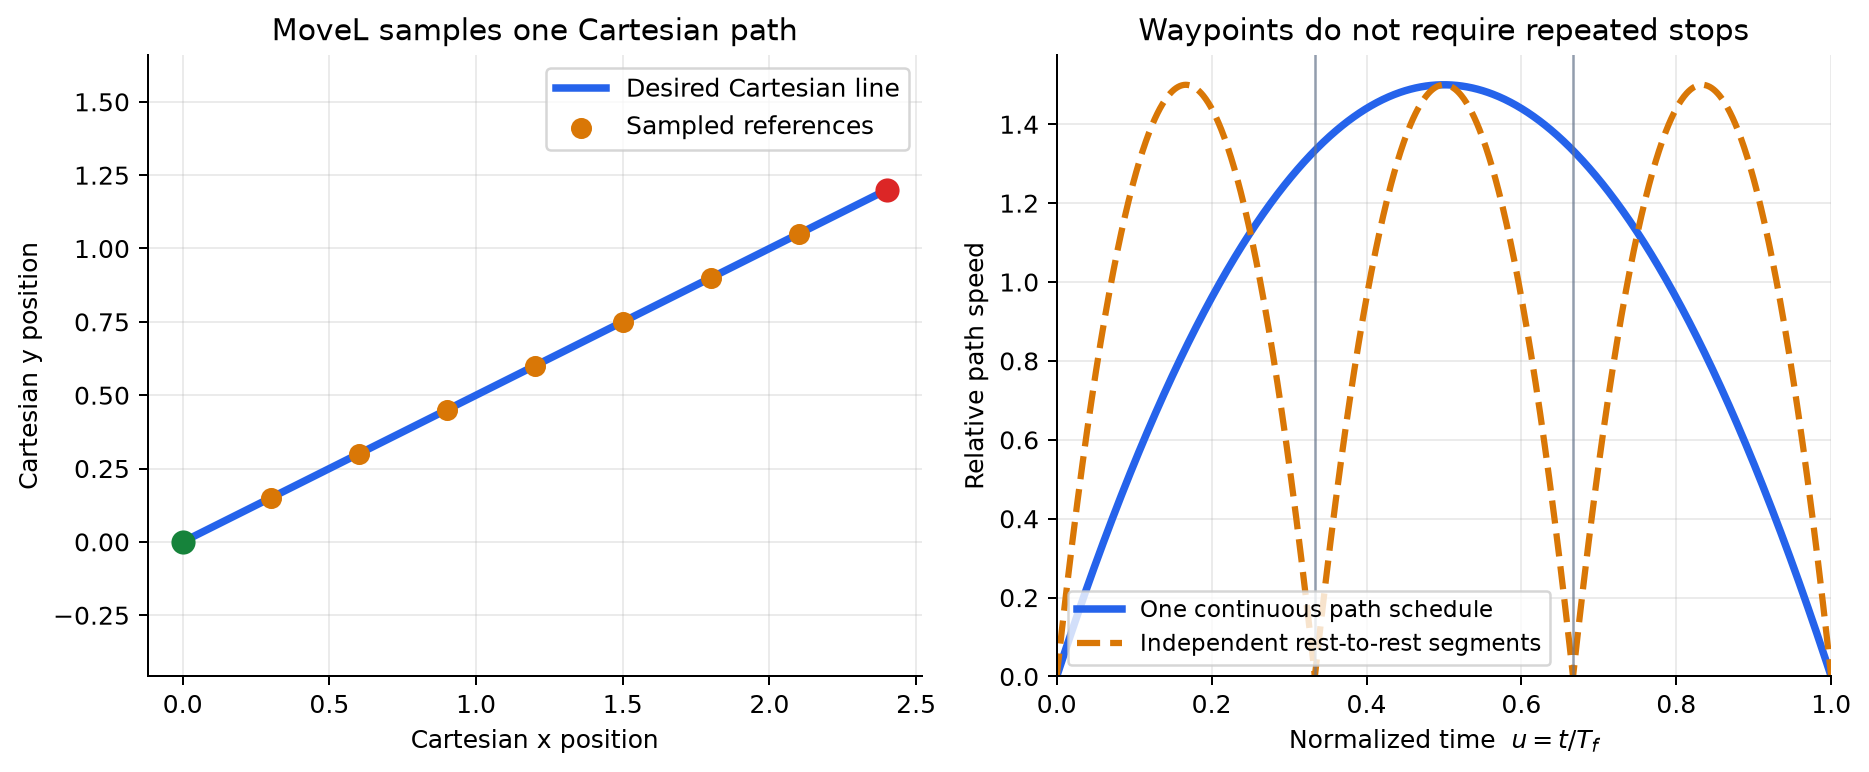
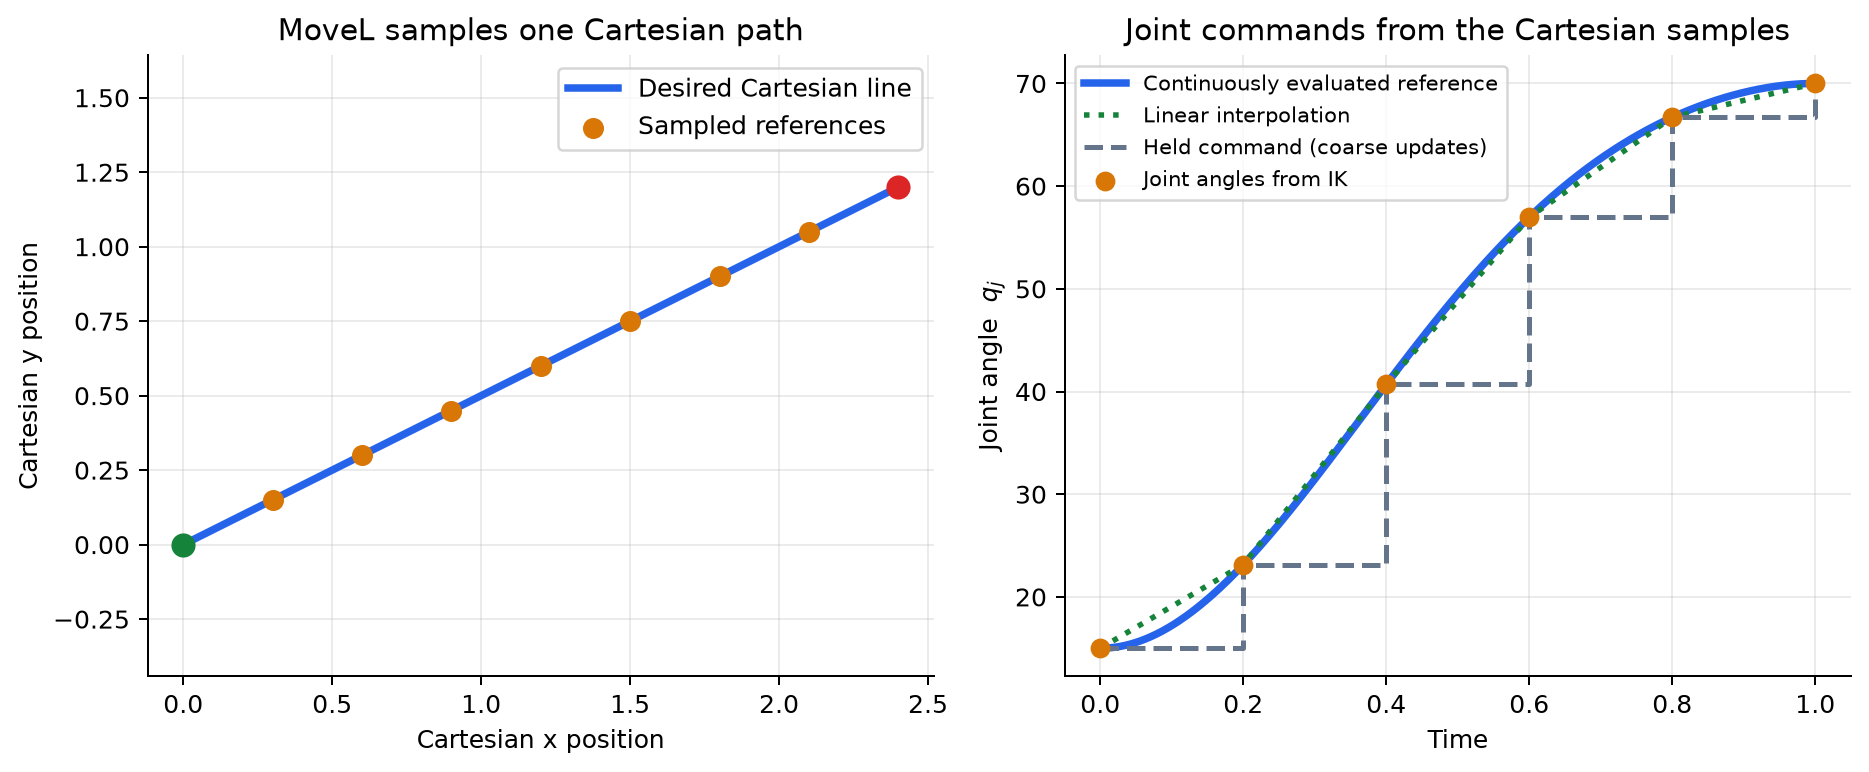
Implement code changes to enhance functionality and improve performance

diff --git a/lab05_trajectory_tracking/figures/generate_trajectory_figures.py b/lab05_trajectory_tracking/figures/generate_trajectory_figures.py
@@ -315,7 +315,7 @@ def save_joint_space_motion():
     plt.close(figure)
 
 
-def save_cartesian_waypoints():
+def save_cartesian_sampling():
     path_progress = np.linspace(0.0, 1.0, 501)
     start = np.array([0.0, 0.0])
     end = np.array([2.4, 1.2])
@@ -323,12 +323,18 @@ def save_cartesian_waypoints():
     waypoint_progress = np.linspace(0.0, 1.0, 9)
     waypoints = start[:, None] + (end - start)[:, None] * waypoint_progress
 
-    normalized_time = np.linspace(0.0, 1.0, 1201)
-    continuous_speed = 6.0 * normalized_time - 6.0 * normalized_time**2
-    segment_count = 3
-    local_progress = np.mod(normalized_time * segment_count, 1.0)
-    local_progress[-1] = 1.0
-    stop_at_waypoint_speed = 6.0 * local_progress * (1.0 - local_progress)
+    time = np.linspace(0.0, 1.0, 1001)
+    joint_reference = (
+        15.0
+        + 55.0 * (3.0 * time**2 - 2.0 * time**3)
+        + 7.0 * np.sin(np.pi * time) ** 2
+    )
+    sample_times = np.linspace(0.0, 1.0, 6)
+    sample_angles = (
+        15.0
+        + 55.0 * (3.0 * sample_times**2 - 2.0 * sample_times**3)
+        + 7.0 * np.sin(np.pi * sample_times) ** 2
+    )
 
     figure, axes = plt.subplots(1, 2, figsize=(10.4, 4.4))
     style_axes(axes)
@@ -345,19 +351,20 @@ def save_cartesian_waypoints():
     axes[0].axis("equal")
     axes[0].legend()
 
-    axes[1].plot(normalized_time, continuous_speed, color=BLUE,
-                 linewidth=3.0, label="One continuous path schedule")
-    axes[1].plot(normalized_time, stop_at_waypoint_speed, color=ORANGE,
-                 linewidth=2.5, linestyle="--",
-                 label="Independent rest-to-rest segments")
-    for boundary in [1.0 / 3.0, 2.0 / 3.0]:
-        axes[1].axvline(boundary, color=GRAY, linewidth=1.0, alpha=0.7)
-    axes[1].set_xlim(0.0, 1.0)
-    axes[1].set_ylim(bottom=0.0)
-    axes[1].set_xlabel(r"Normalized time  $u=t/T_f$")
-    axes[1].set_ylabel("Relative path speed")
-    axes[1].set_title("Waypoints do not require repeated stops")
-    axes[1].legend(fontsize=9)
+    axes[1].plot(time, joint_reference, color=BLUE, linewidth=3.0,
+                 label="Continuously evaluated reference")
+    axes[1].plot(time, np.interp(time, sample_times, sample_angles),
+                 color=GREEN, linewidth=2.2, linestyle=":",
+                 label="Linear interpolation")
+    axes[1].step(sample_times, sample_angles, where="post", color=GRAY,
+                 linewidth=2.0, linestyle="--",
+                 label="Held command (coarse updates)")
+    axes[1].scatter(sample_times, sample_angles, color=ORANGE, s=48,
+                    zorder=4, label="Joint angles from IK")
+    axes[1].set_xlabel("Time")
+    axes[1].set_ylabel(r"Joint angle  $q_j$")
+    axes[1].set_title("Joint commands from the Cartesian samples")
+    axes[1].legend(fontsize=8.5)
 
     figure.tight_layout()
     figure.savefig(
@@ -366,19 +373,13 @@ def save_cartesian_waypoints():
     plt.close(figure)
 
 
-def save_ik_samples_and_via_points():
-    time = np.linspace(0.0, 1.0, 1001)
-    joint_reference = (
-        15.0
-        + 55.0 * (3.0 * time**2 - 2.0 * time**3)
-        + 7.0 * np.sin(np.pi * time) ** 2
-    )
-    sample_times = np.linspace(0.0, 1.0, 6)
-    sample_angles = (
-        15.0
-        + 55.0 * (3.0 * sample_times**2 - 2.0 * sample_times**3)
-        + 7.0 * np.sin(np.pi * sample_times) ** 2
-    )
+def save_via_point_segments():
+    normalized_time = np.linspace(0.0, 1.0, 1201)
+    continuous_speed = 6.0 * normalized_time - 6.0 * normalized_time**2
+    segment_count = 3
+    local_progress = np.mod(normalized_time * segment_count, 1.0)
+    local_progress[-1] = 1.0
+    stop_at_waypoint_speed = 6.0 * local_progress * (1.0 - local_progress)
 
     via_times = np.array([0.0, 1.0, 2.0, 3.0])
     via_angles = np.array([0.0, 0.9, -0.25, 1.05])
@@ -415,19 +416,18 @@ def save_ik_samples_and_via_points():
     figure, axes = plt.subplots(1, 2, figsize=(10.6, 4.5))
     style_axes(axes)
 
-    axes[0].plot(time, joint_reference, color=BLUE, linewidth=3.0,
-                 label="Continuously evaluated reference")
-    axes[0].plot(time, np.interp(time, sample_times, sample_angles),
-                 color=GREEN, linewidth=2.2, linestyle=":",
-                 label="Linear interpolation")
-    axes[0].step(sample_times, sample_angles, where="post", color=GRAY,
-                 linewidth=2.0, linestyle="--",
-                 label="Held command (coarse updates)")
-    axes[0].scatter(sample_times, sample_angles, color=ORANGE, s=48,
-                    zorder=4, label="Joint angles from IK")
-    axes[0].set_xlabel("Time")
-    axes[0].set_ylabel(r"Joint angle  $q_j$")
-    axes[0].set_title("Between successive IK samples")
+    axes[0].plot(normalized_time, continuous_speed, color=BLUE,
+                 linewidth=3.0, label="One continuous path schedule")
+    axes[0].plot(normalized_time, stop_at_waypoint_speed, color=ORANGE,
+                 linewidth=2.5, linestyle="--",
+                 label="Independent rest-to-rest segments")
+    for boundary in [1.0 / 3.0, 2.0 / 3.0]:
+        axes[0].axvline(boundary, color=GRAY, linewidth=1.0, alpha=0.7)
+    axes[0].set_xlim(0.0, 1.0)
+    axes[0].set_ylim(bottom=0.0)
+    axes[0].set_xlabel(r"Normalized time  $u=t/T_f$")
+    axes[0].set_ylabel("Relative path speed")
+    axes[0].set_title("Stop at or pass through each via point")
     axes[0].legend(fontsize=8.5)
 
     axes[1].plot(spline_time, spline_angle, color=BLUE, linewidth=3.0,
@@ -456,7 +456,7 @@ def save_ik_samples_and_via_points():
 
     figure.tight_layout()
     figure.savefig(
-        OUTPUT_DIR / "ik_samples_and_via_points.png",
+        OUTPUT_DIR / "via_point_segments.png",
         dpi=180,
         bbox_inches="tight",
     )
@@ -470,5 +470,5 @@ if __name__ == "__main__":
     save_cubic_derivative_shapes()
     save_velocity_profile_comparison()
     save_joint_space_motion()
-    save_cartesian_waypoints()
-    save_ik_samples_and_via_points()
+    save_cartesian_sampling()
+    save_via_point_segments()

diff --git a/lab05_trajectory_tracking/OPTIONAL_BACKGROUND.md b/lab05_trajectory_tracking/OPTIONAL_BACKGROUND.md
@@ -366,15 +366,19 @@ $$
 
 where $\boldsymbol\tau_{\mathrm{ff}}$ can compensate for gravity, inertia, and other modeled effects. Actual industrial controllers use more detailed proprietary algorithms, but the principle is the same: closely spaced references guide a continuous physical response. If a high-level program supplies only widely spaced points, the robot controller normally interpolates or blends them internally using a linear, polynomial, trapezoidal, or jerk-limited profile.
 
+![A continuous Cartesian line sampled into reference points and the corresponding sampled joint commands.](figures/cartesian_waypoints.png)
+
+*Both panels describe the same continuous Cartesian-sampling process. Left: the orange points sample one Cartesian line. Right: IK converts successive Cartesian samples into joint targets; the dashed staircase, dotted linear interpolation, and solid continuous reference show possible interpretations between deliberately coarse samples.*
+
+Smaller sampling intervals represent the reference path more densely but increase the number of IK solves and commands. Very coarse sampling can produce interpolation error. Very fine sampling does not automatically improve tracking if the controller or simulation step cannot follow the commands.
+
+### User-defined segments and via points
+
 A waypoint can also be a user-specified point that divides a longer path into segments. Each segment needs a geometric interpolation rule, but it does **not** need to be an independent rest-to-rest motion. A practical trajectory generator coordinates the timing of the complete path and sends one continuous stream of references. It may blend or round a corner so velocity and acceleration remain continuous.
 
 If each segment instead receives its own rest-to-rest profile, the commanded speed falls to zero at every waypoint. That behavior is appropriate when a full stop is required, but it produces unnecessary repeated acceleration and deceleration when the robot should pass through continuously.
 
-![A Cartesian line sampled into waypoints and continuous versus stop-at-each-waypoint speed schedules.](figures/cartesian_waypoints.png)
-
-*Left: the orange points are samples of one continuous Cartesian line, not separate motions. Right: independently profiling every segment forces a stop at each boundary, whereas one path-level schedule passes through the sampled references continuously.*
-
-The figure below separates high-rate IK samples from user-defined via points. The construction on the right is the piecewise-polynomial idea often shown in trajectory-planning diagrams: each time interval has its own polynomial, and neighboring polynomials meet at a via point. To pass through smoothly, both segments must give the same joint angle and joint velocity there,
+The piecewise-polynomial construction often shown in trajectory-planning diagrams assigns one polynomial to each interval between user-defined via points. Neighboring polynomials meet at a via point. To pass through smoothly, both segments must give the same joint angle and joint velocity there,
 
 $$
 q_j(t_k^-)=q_j(t_k^+),
@@ -384,11 +388,9 @@ $$
 
 Matching acceleration as well gives still smoother motion. Setting the shared waypoint velocity to zero makes the joint stop there; assigning a nonzero shared velocity lets it pass through continuously. If the polynomials are constructed in joint space after IK, the tool path between Cartesian waypoints is not guaranteed to remain exactly straight. Maintaining a strict Cartesian line requires sampling or controlling the Cartesian path itself.
 
-![Joint commands between IK samples and piecewise cubic segments joined smoothly at user-defined via points.](figures/ik_samples_and_via_points.png)
+![Timing choices and piecewise cubic interpolation for user-defined via-point segments.](figures/via_point_segments.png)
 
-*Left: the dashed staircase is what held position targets look like with deliberately coarse updates. The dotted line shows explicit linear interpolation, and the solid curve shows the continuous reference from which the IK points were sampled. Real control updates are normally much closer together. Right: separate cubic pieces form one smooth joint trajectory because they share the same position and slope at each internal via point.*
-
-Smaller sampling intervals represent the reference path more densely but increase the number of IK solves and commands. Very coarse sampling can produce interpolation error. Very fine sampling does not automatically improve tracking if the controller or simulation step cannot follow the commands.
+*Both panels describe user-defined segmented motion. Left: independent rest-to-rest profiles stop at every boundary, while one coordinated schedule passes through. Right: separate cubic pieces form one smooth joint trajectory because they share the same position and slope at each internal via point.*
 
 ## 10. A generated trajectory is a reference, not a measurement
 
